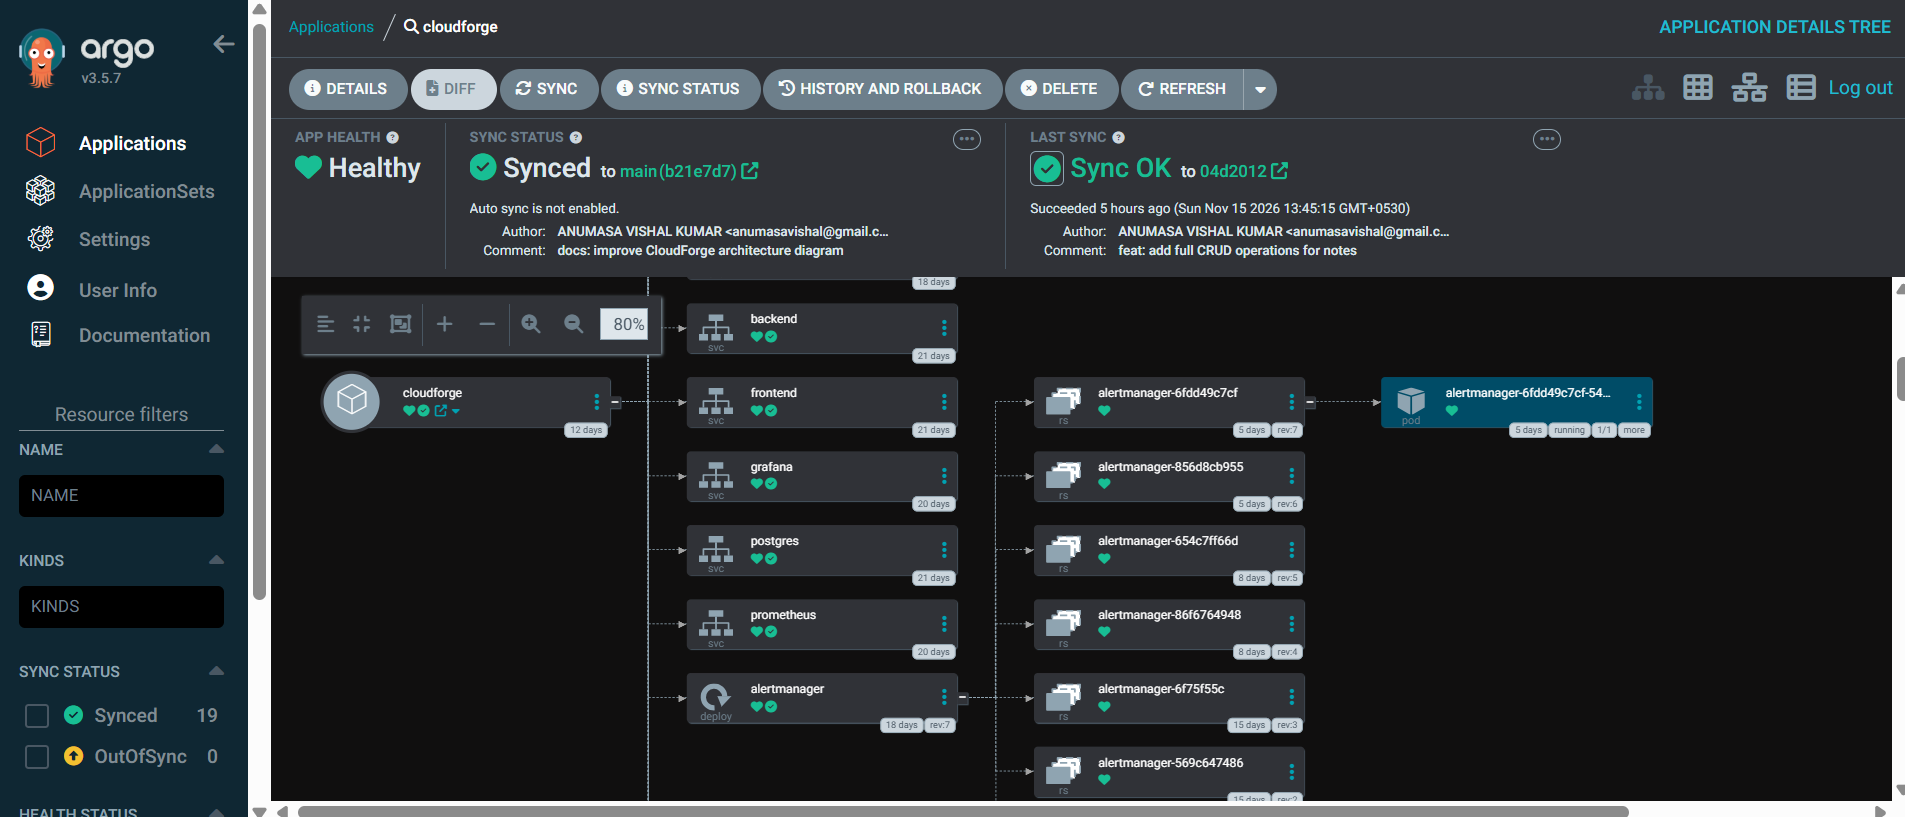
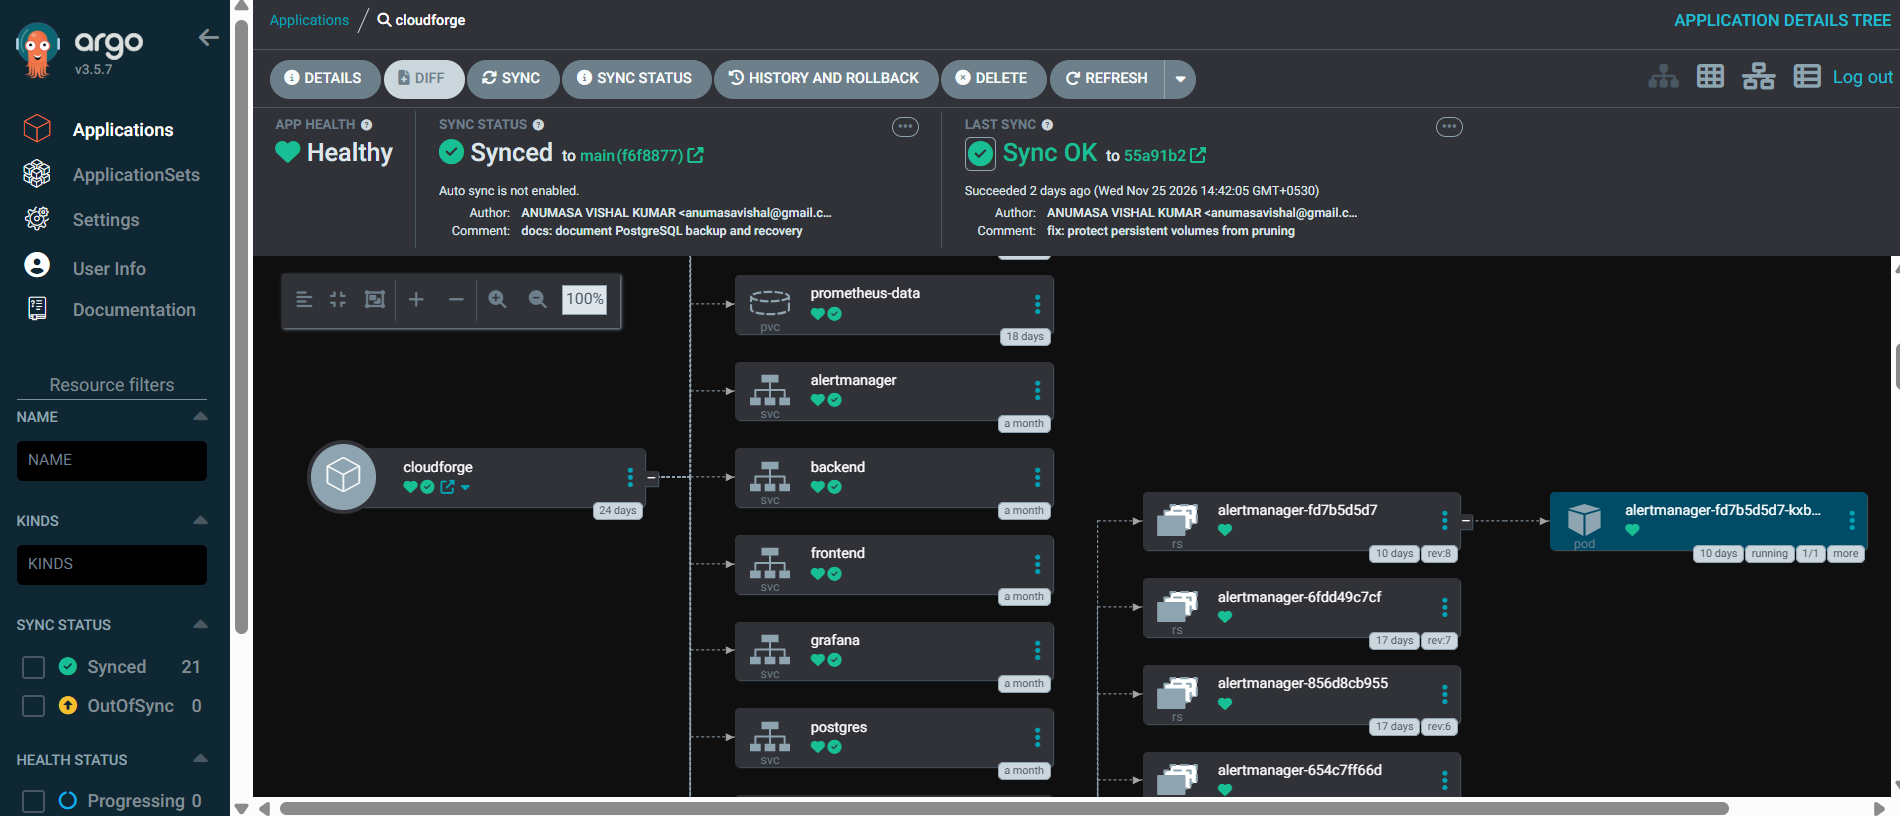
docs: refresh CloudForge project screenshots

diff --git a/README.md b/README.md
@@ -28,11 +28,16 @@ The backend v1.0.1 and frontend v1.0.3 are subsequent local image iterations. Th
 ### Argo CD GitOps dashboard
 ![Argo CD GitOps dashboard](docs/screenshots/argocd-gitops.png)
 
-### Grafana application health
-![Grafana application health dashboard](docs/screenshots/grafana-health.png)
+### Grafana Local Monitoring
+![Grafana Local Monitoring dashboard](docs/screenshots/grafana-health.png)
 
 ### Grafana Kubernetes monitoring
-![Grafana Kubernetes monitoring dashboard](docs/screenshots/grafana-performance.png)
+
+**Part 1**
+![Grafana Kubernetes monitoring dashboard - part 1](docs/screenshots/grafana-performance-1.png)
+
+**Part 2**
+![Grafana Kubernetes monitoring dashboard - part 2](docs/screenshots/grafana-performance-2.png)
 
 ### Kubernetes workloads
 ![CloudForge Kubernetes workloads](docs/screenshots/kubernetes-workloads.png)
